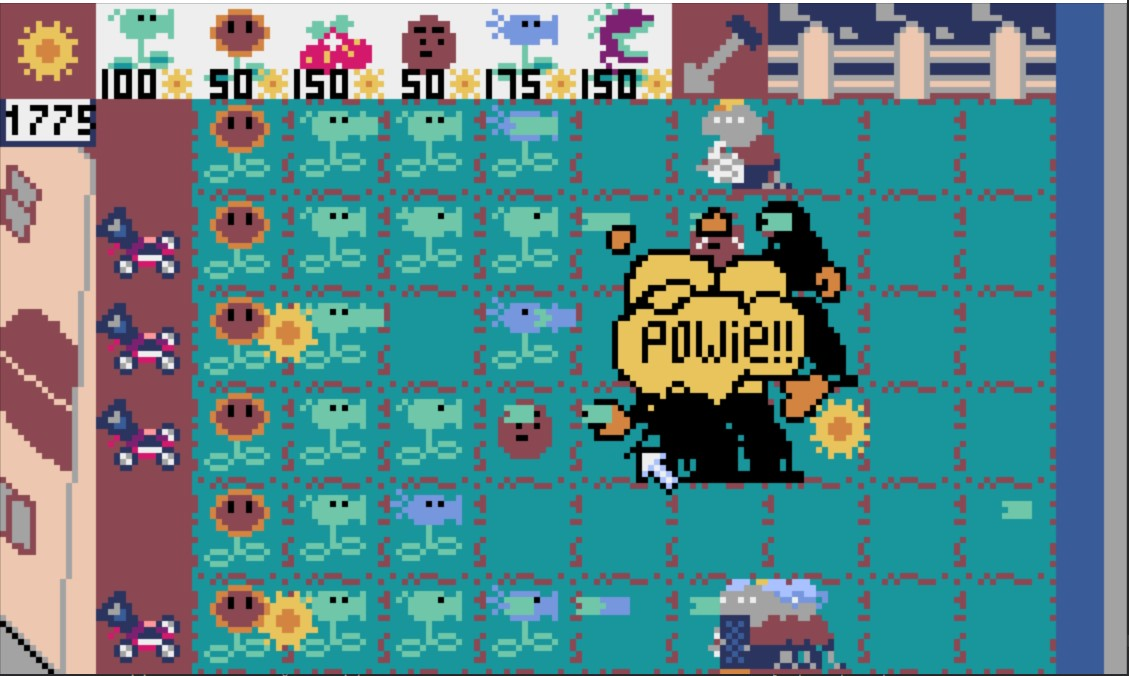
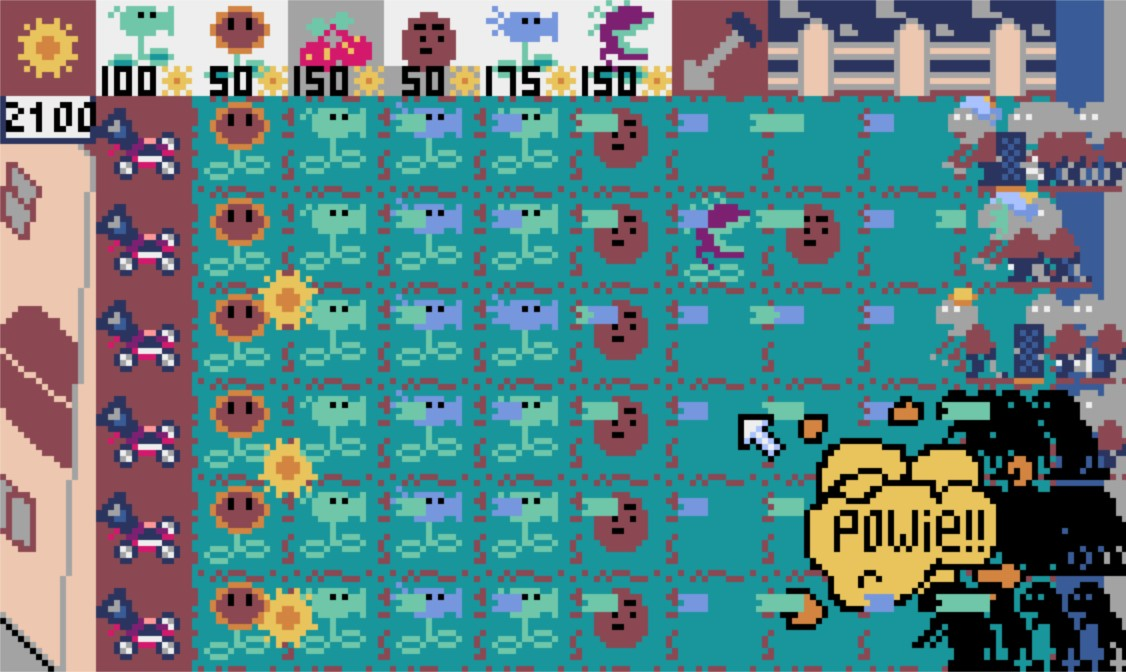
finish

diff --git a/main.py b/main.py
@@ -1,12 +1,8 @@
 import pyxel
 from random import randint
 from random import choice
-from math import sqrt
 
-
-######################
-### Zombies' class ###
-######################
+# Zombies' class
 zombie_source_map = {"NormalZombies": (1, 0, 0, 16, 16, 0),  # [img, u, v, w, h, [colkey]]
                      "FlagZombies": (1, 0, 80, 16, 16, 0),
                      "ConeHeadZombies": (1, 0, 16, 16, 16, 0),
@@ -109,9 +105,7 @@ class Zombies:
         pyxel.blt(self.x, self.y, *self.source)
 
 
-#####################
-### Plants' class ###
-#####################
+# Plants' class
 plant_source_map = {"Peashooter": (0, 16, 16, 16, 16, 13),  # [img, u, v, w, h, [colkey]]
                     "SunFlower": (0, 16, 32, 16, 16, 13),
                     "CherryBomb": (0, 16, 48, 16, 16, 13),
@@ -136,25 +130,31 @@ plant_reset_counter_map = {"Peashooter": 30,  # frames
                            "WallNut": None,
                            "SnowPea": 30,
                            "Chomper": None}
-plant_cost_map = {"Peashooter": 100,  # sun_light
-                  "SunFlower": 50,
-                  "CherryBomb": 150,
-                  "WallNut": 50,
-                  "SnowPea": 175,
-                  "Chomper": 150}
+plant_cost_cd_map = {"Peashooter": (100, 100),  # (cost, cd)
+                     "SunFlower": (50, 100),  # 5 sec
+                     "CherryBomb": (150, 300),  # 20 sec
+                     "WallNut": (50, 200),  # 10 sec
+                     "SnowPea": (175, 140),  # 7 sec
+                     "Chomper": (150, 140)}
+plant_card_map = {"Peashooter": (0, 16, 112, 16, 16),  # [img, u, v, w, h]
+                  "SunFlower": (0, 16, 128, 16, 16),
+                  "CherryBomb": (0, 16, 144, 16, 16),
+                  "WallNut": (0, 16, 160, 16, 16),
+                  "SnowPea": (0, 16, 176, 16, 16),
+                  "Chomper": (0, 16, 192, 16, 16)}
 
 
 class EdiblePlants:
-    def __init__(self, type, x, y):
-        if type == "WallNut":
-            self.health = 3000
+    def __init__(self, typ, x, y):
+        if typ == "WallNut":
+            self.health = 4000
         else:
             self.health = 60
         self.x = x
         self.y = y
-        self.type = type
-        self.source = [x, y, *plant_source_map[type]]
-        self.damage = plant_damage_map[type]
+        self.type = typ
+        self.source = [x, y, *plant_source_map[typ]]
+        self.damage = plant_damage_map[typ]
         self.is_alive = True
 
         self.do_skill_signal = False
@@ -214,7 +214,7 @@ class EdiblePlants:
     def get_hurt(self, damage):
         self.health -= damage
         if self.type == "WallNut":
-            if self.health < 3000 / 2:
+            if self.health < 4000 / 2:
                 self.source = [self.x, self.y, *[0, 32, 64, 16, 16, 13]]
         if self.health <= 0:
             self.is_alive = False
@@ -262,6 +262,7 @@ class CherryBomb:
         self.bla_counter -= 1
 
 
+# tools' class
 class Bullet:
     def __init__(self, x, y, type):
         self.x = x
@@ -342,8 +343,10 @@ class App:
         self.hover_box = None
         self.selected_type = None  # [img, u, v, w, h, [colkey]]
 
+        self.plants_cd = {"Peashooter": [0, True], "SunFlower": [0, True],
+                          "CherryBomb": [0, True], "WallNut": [0, True],
+                          "SnowPea": [0, True], "Chomper": [0, True]}  # [t, ready]
         self.sun_list = []
-
         self.lines = {0: {"car": Car(2 * 8), "plants": {}, "zombies": [], "bullets": [], "bomb": []},
                       1: {"car": Car(4 * 8), "plants": {}, "zombies": [], "bullets": [], "bomb": []},
                       2: {"car": Car(6 * 8), "plants": {}, "zombies": [], "bullets": [], "bomb": []},
@@ -356,7 +359,6 @@ class App:
     def update(self):
         if pyxel.btnp(pyxel.KEY_Q):
             pyxel.quit()
-
         if self.lose:
             if pyxel.btnp(pyxel.KEY_R):
                 self.__init__()
@@ -364,6 +366,13 @@ class App:
 
         if pyxel.frame_count % 20 == 0 and pyxel.frame_count != 0:
             self.time += 1  # update game time
+
+        for cd in self.plants_cd.values():  # cd counter
+            if not cd[1]:  # not ready
+                if cd[0] > 0:
+                    cd[0] -= 1
+                else:  # cd[0] == 0
+                    cd[1] = True
 
         self.self_producing_sun()
 
@@ -472,6 +481,7 @@ class App:
                             self.lines[line]["bullets"].append(pla.get_skill())  # bullet
                         else:
                             self.sun_list.append(pla.get_skill())
+
         self.mouse_reaction()
         self.next_wave()
 
@@ -484,6 +494,19 @@ class App:
             return
 
         pyxel.bltm(0, 0, 0, 0, 0, 112, 152)
+
+        # draw plants' cards
+        for i, t in enumerate(list(plant_card_map.keys())):
+            img, u, v, w, h = plant_card_map[t]
+            if self.plants_cd[t][1]:
+                pyxel.blt((i + 1) * 16, 0, img, u, v, w, h)
+            else:
+                if 0.666 < self.plants_cd[t][0] / plant_cost_cd_map[t][1] <= 1:
+                    pyxel.blt((i + 1) * 16, 0, img, u + 16, v, w, h)
+                elif 0.333 < self.plants_cd[t][0] / plant_cost_cd_map[t][1] <= 0.666:
+                    pyxel.blt((i + 1) * 16, 0, img, u + 32, v, w, h)
+                else:
+                    pyxel.blt((i + 1) * 16, 0, img, u + 48, v, w, h)
 
         if self.selected_box is not None:
             pyxel.blt(*self.selected_box)
@@ -529,7 +552,9 @@ class App:
         # select a plant
         if x_index in range(1, 8) and y_index in range(0, 1) and pyxel.btnp(pyxel.MOUSE_LEFT_BUTTON):
             self.selected_box = [x_index * 16, y_index * 16, 0, 80, 16, 16, 16, 0]  # [x, y, img, u, v, w, h, [colkey]]
-            if not (x_index in range(7, 8) and y_index in range(0, 1)):
+            if not (x_index in range(7, 8) and y_index in range(0, 1)) \
+                    and self.plants_cd[plant_selection_map[x_index]][1] \
+                    and self.sun_num - plant_cost_cd_map[plant_selection_map[x_index]][0] >= 0:
                 self.selected_type = plant_selection_map[x_index]
             else:
                 self.selected_type = None
@@ -537,13 +562,15 @@ class App:
         # plant or remove a plant
         if pyxel.btnp(pyxel.MOUSE_LEFT_BUTTON) and x_index in range(2, 11) and y_index in range(1, 7):
             if self.selected_type is not None and (x_index - 2) not in self.lines[y_index - 1]["plants"].keys()\
-                    and self.sun_num - plant_cost_map[self.selected_type] >= 0:
+                    and self.sun_num - plant_cost_cd_map[self.selected_type][0] >= 0:
                 if self.selected_type == "CherryBomb":
                     self.lines[y_index - 1]["bomb"].append(CherryBomb(x_index * 16, y_index * 16))
                 else:
                     self.lines[y_index - 1]["plants"][x_index - 2] = EdiblePlants(self.selected_type,
                                                                                   x_index * 16, y_index * 16)
-                self.sun_num -= plant_cost_map[self.selected_type]
+                self.sun_num -= plant_cost_cd_map[self.selected_type][0]
+                self.plants_cd[self.selected_type][0] = plant_cost_cd_map[self.selected_type][1]
+                self.plants_cd[self.selected_type][1] = False  # set cd
                 self.selected_box = self.selected_type = self.hover_box = None
             else:
                 if self.selected_box is not None and self.selected_box[0] == 7 * 16:  # shovel selected
@@ -587,9 +614,9 @@ class App:
             )
 
     def next_wave(self):
-        if pyxel.frame_count % 600 == 0 and 0 < self.time <= 300:  # 20s
-            normal_zombie_num = int(self.time / 20)
-            if self.time != 0 and (self.time == 30 or self.time % 60 == 0):
+        if pyxel.frame_count % 600 == 0 and self.time != 0:  # new wave every 30s
+            normal_zombie_num = int(self.time / 30) if self.time <= 450 else 15  # reach max number after 7.5 min
+            if self.time != 0 and (self.time == 30 or self.time % 60 == 0):    # just to prevent having too many zombies
                 self.random_zombies("FlagZombies", 1)
                 self.random_zombies("NormalZombies", normal_zombie_num - 1)
             else:
@@ -600,6 +627,5 @@ class App:
                 self.random_zombies("ScreenDoorZombies", normal_zombie_num - 4)
 
 
-App()
-
-# TODO: CD
+if __name__ == "__main__":
+    App()

diff --git a/README.md b/README.md
@@ -4,7 +4,17 @@
 
 <img src="demo1.jpg" height="50%" width="50%">
 <img src="demo2.jpg" height="50%" width="50%">
+<img src="demo3.jpg" height="50%" width="50%">
 
-90% complete
+## Win / Lost
+- zombies will keep coming every 30 seconds, defend as long as possible!
+- Lost if zombies get into your house
+
+## Control
+- mouse
+- 'q' or 'esc' to terminate
+
+## Installation
+clone this repo and run main.py
 
 ###### Use [Pyxel](https://github.com/kitao/pyxel) as game engine
